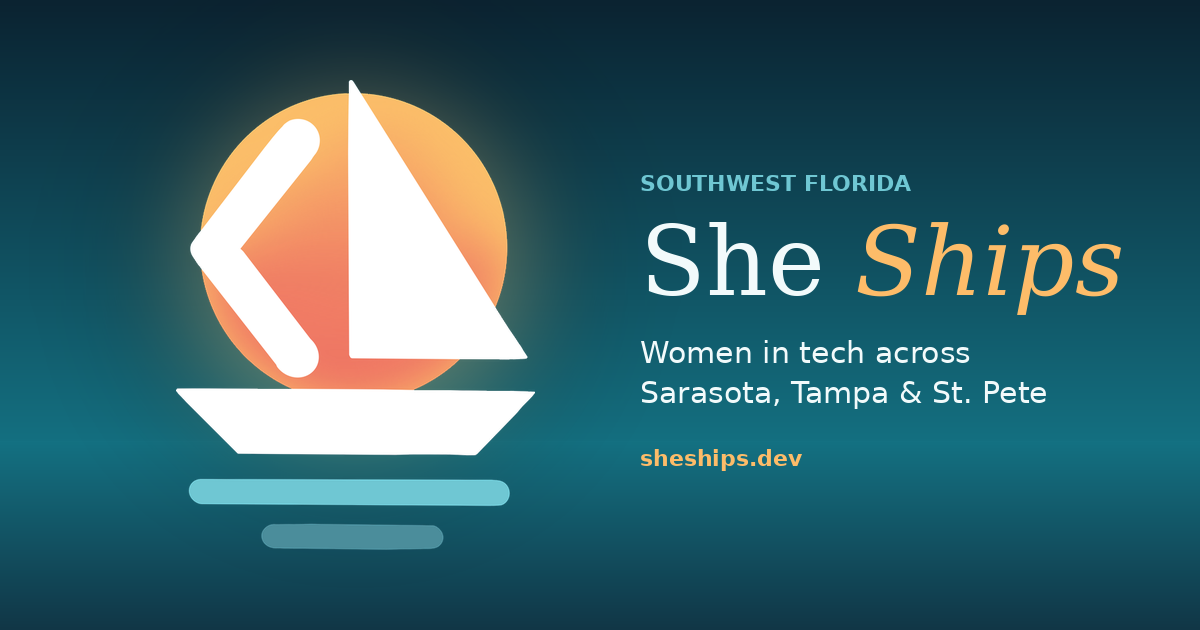
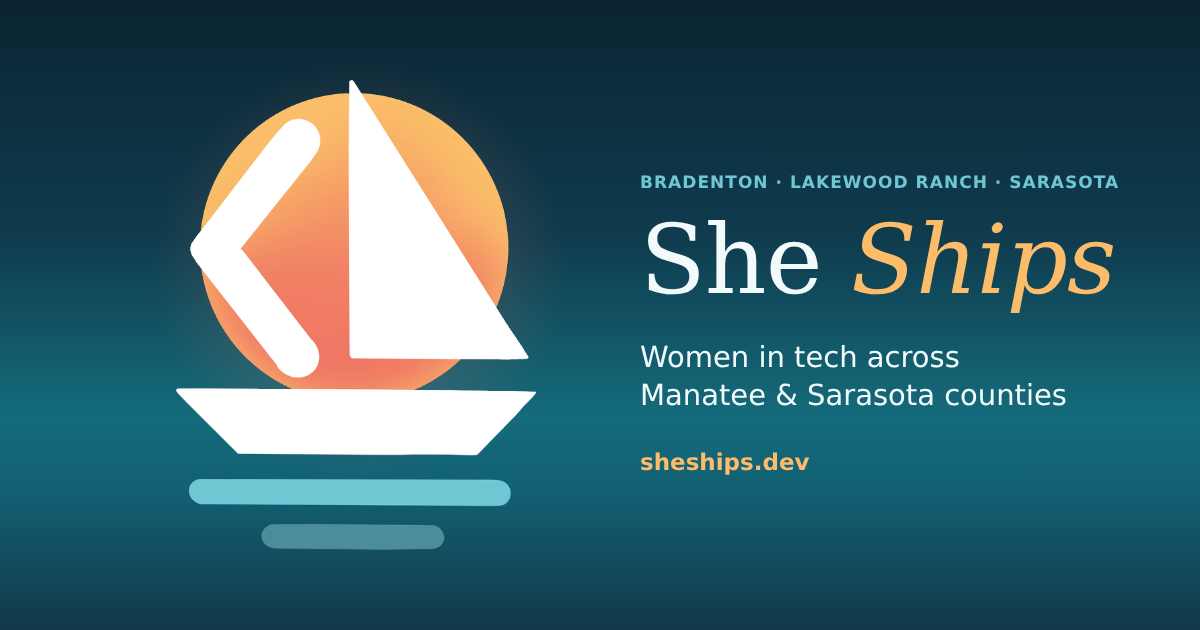
New link preview image: Manatee and Sarasota counties
Replaces og-image.png, which had "Southwest Florida" and "Sarasota, Tampa & St. Pete" in the artwork, with the same design reading "Bradenton · Lakewood Ranch · Sarasota" and "Women in tech across Manatee & Sarasota counties". The og:image, twitter:image and JSON-LD image URLs get ?v=2, because .htaccess caches PNGs for a year and social scrapers cache by URL.

Claude-Session: https://claude.ai/code/session_01DXPnkL2xV4wTUbCggG93T1

diff --git a/index.html b/index.html
@@ -31,7 +31,7 @@
       property="og:description"
       content="A free, welcoming community for women in tech in Manatee and Sarasota counties."
     />
-    <meta property="og:image" content="https://sheships.dev/og-image.png" />
+    <meta property="og:image" content="https://sheships.dev/og-image.png?v=2" />
     <meta property="og:image:width" content="1200" />
     <meta property="og:image:height" content="630" />
     <meta property="og:image:alt" content="She Ships logo: a sailboat in front of a sunset, with the words Women in tech across Manatee and Sarasota" />
@@ -39,7 +39,7 @@
     <meta name="twitter:card" content="summary_large_image" />
     <meta name="twitter:title" content="She Ships | Women in Tech in Bradenton, Lakewood Ranch &amp; Sarasota" />
     <meta name="twitter:description" content="A free, welcoming community for women in tech in Manatee and Sarasota counties." />
-    <meta name="twitter:image" content="https://sheships.dev/og-image.png" />
+    <meta name="twitter:image" content="https://sheships.dev/og-image.png?v=2" />
 
     <script type="application/ld+json">
       {
@@ -51,7 +51,7 @@
             "name": "She Ships",
             "url": "https://sheships.dev/",
             "logo": "https://sheships.dev/logo.png",
-            "image": "https://sheships.dev/og-image.png",
+            "image": "https://sheships.dev/og-image.png?v=2",
             "description": "A free, welcoming community for women in tech in Manatee and Sarasota counties: meetups, workshops and hack days for developers at every level, in Bradenton, Lakewood Ranch and Sarasota.",
             "foundingDate": "2026",
             "contactPoint": [
